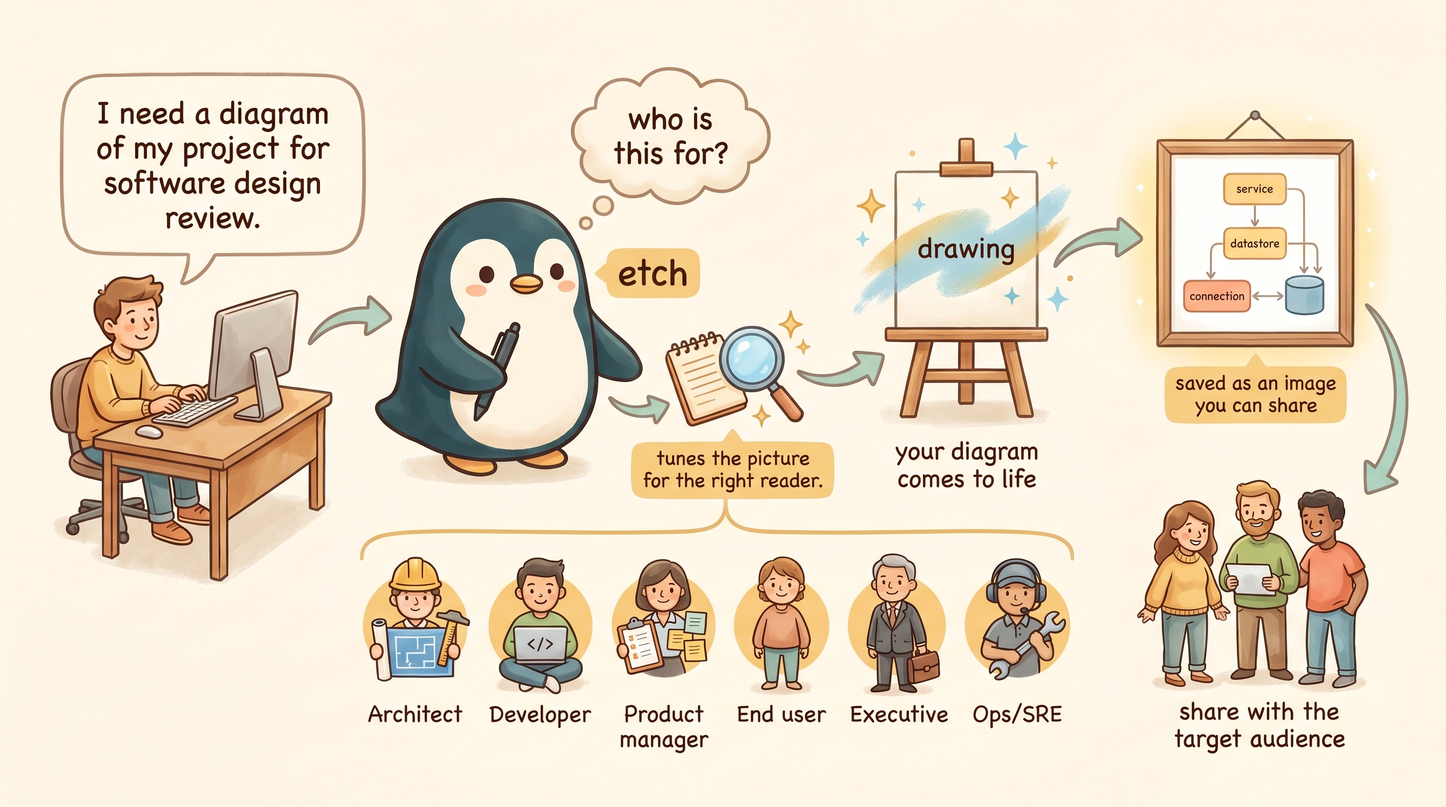
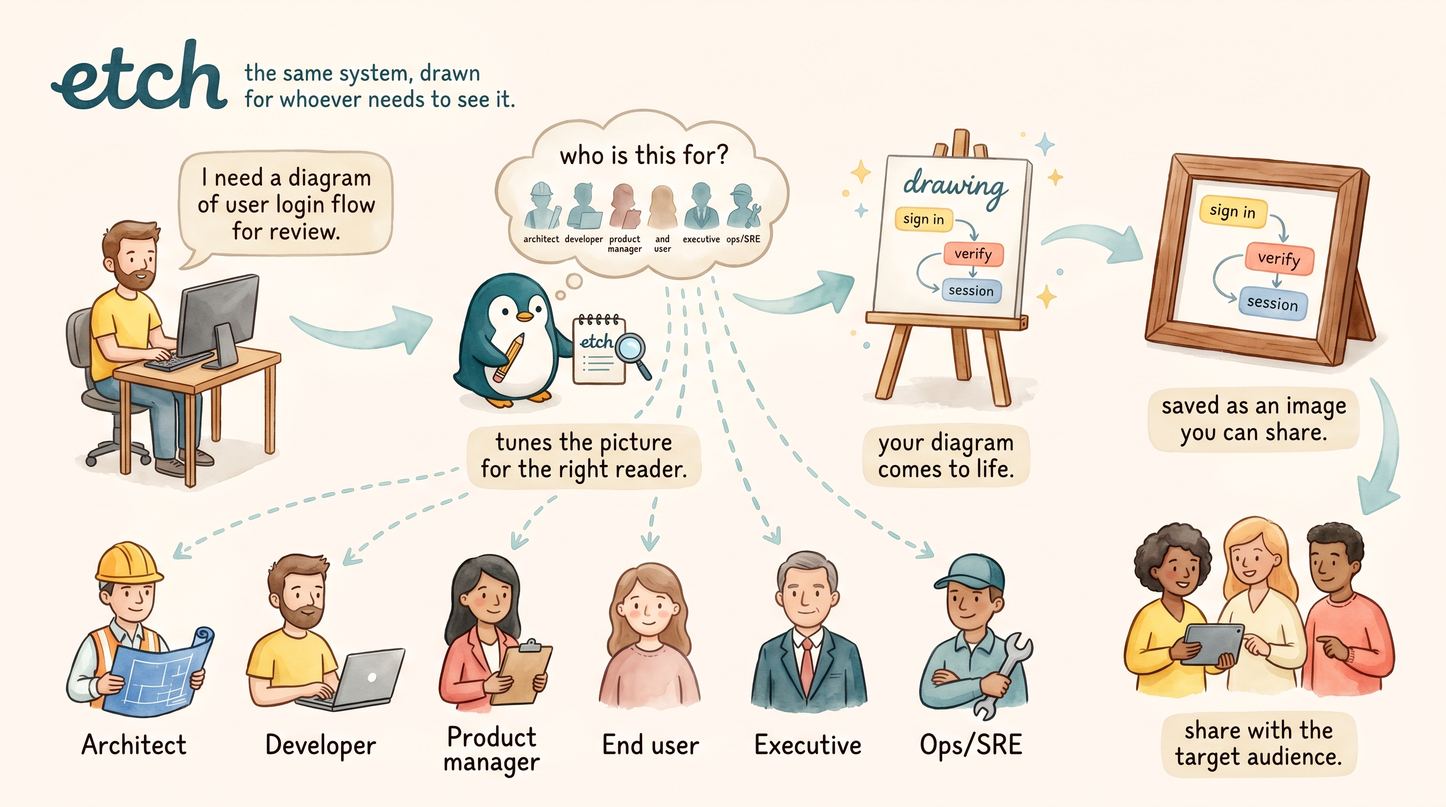
feat(skill,brand): two-register skill + brand hero refresh
Overwrites the etch skill's House style — previously a single watercolor
block forced on every generation — with two named registers the skill
picks between per image:

  - Storybook (default): the original warm watercolor / hand-applied
    feel that matches the existing illustrated brand assets in images/.
  - Enterprise stark (alternate): editorial technical illustration with
    a navy-dominant palette + warm brass accent, for boardroom /
    runbook / B2B platform docs where the watercolor register would
    feel unprofessional.

The Flow gains a register-pick step that infers from cues (hero /
brand / marketing → storybook; boardroom / runbook / explicit
"enterprise" → stark; both clean signals → announce; ambiguous →
ask user with a one-line binary). Per-audience anchors layer on top
of whichever register is chosen and still win on conflicts.

Brand assets updated alongside:

  - images/etch_hero.png (new) — landing hero: penguin sketching on
    an easel with the description fanning out into three audience-
    shaped thumbnails (developer, product manager, end user).
  - images/etch_user_journey.png (refreshed) — same composition as
    before, but with a tighter narrative throughline ("user login
    flow" from request to artifact) and a persona-link refinement:
    silhouettes inside the "who is this for?" thought bubble
    visually connect via dashed lines to the six archetype lineup
    below, making it canonical that etch picks from those six.
[…]

diff --git a/skills/etch/SKILL.md b/skills/etch/SKILL.md
@@ -34,15 +34,24 @@ The skill makes one inference attempt and at most one interview, then commits. I
 
 3. **Infer canvas (`aspect_ratio` and `resolution`) from the same signals** (see Canvas inference table below).
 
-4. **Branch on inference confidence:**
-   - **Confident** (at least one direct signal present): announce the inferred audience and canvas, then fire the call. Example: `Reading this as ops/SRE for a runbook print — 3:4, 2K. Generating now…`
-   - **Not confident** (request is generic, "draw a diagram of the system" with no other signals): run the interview (see below), then announce + proceed once the user picks.
+4. **Pick the house-style register** (see "Which register to use" above). If the signals favor one register cleanly, announce it. Otherwise present the binary choice to the user in one short line:
 
-5. **Build the audience guidance string.**
-   - If the inferred or selected audience matches one of the six anchors below, embed the anchor's prose block verbatim as the `audience` parameter.
+   ```
+   Style: storybook (default — warm watercolor, matches existing brand assets) or enterprise stark (navy + brass, clean editorial)?
+   ```
+
+   Default to storybook if the user does not answer.
+
+5. **Branch on inference confidence:**
+   - **Confident** (at least one direct signal present): announce the inferred audience, register, and canvas, then fire the call. Example: `Reading this as ops/SRE for a runbook print, enterprise-stark register — 3:4, 2K. Generating now…`
+   - **Not confident** (request is generic, "draw a diagram of the system" with no other signals): run the interview (see below) plus the register pick from step 4, then announce + proceed once the user picks.
+
+6. **Build the audience guidance string.**
+   - Prepend the chosen register's house-style block verbatim (storybook or enterprise stark — see "House style" section).
+   - Then embed the audience anchor's prose block verbatim as the rest of the `audience` parameter.
    - For "Other (describe)" or off-list audiences, write a short (3–5 sentence) guidance block on the fly using the same shape: who the reader is, what to emphasize, what to suppress, what visual register fits.
 
-6. **Call `start_diagram_job`** with the description, the audience prose, and the inferred canvas. Poll `check_job_status` every ~10 seconds until the job is `complete` or `failed`. Report the final path (or the failure reason) to the user.
+7. **Call `start_diagram_job`** with the description, the audience prose (register + anchor), and the inferred canvas. Poll `check_job_status` every ~10 seconds until the job is `complete` or `failed`. Report the final path (or the failure reason) to the user.
 
 ## Inference confidence — what counts as confident
 
@@ -55,9 +64,13 @@ Confidence is **low** when none of the above are present and the request is gene
 
 User-provided `aspect_ratio` or `resolution` always wins over inference. Never override an explicit choice.
 
-## House style (always applied)
+## House style — pick one per image
 
-A small house-style block is prepended to every `audience` parameter — *regardless* of which anchor below is selected. It carries cross-image consistency (palette, paper feel, edge-to-edge framing) so etch's outputs read as a family even when the per-audience register differs. The full prose, sent verbatim:
+Two house-style registers are supported. Exactly one is prepended to every `audience` parameter (alongside the per-audience anchor). They give different visual feels and target different output contexts. **The default is storybook** unless the user picks otherwise.
+
+### Storybook (default — warm illustrated)
+
+The original etch register. Use for friendly developer-tool branding, marketing/hero imagery, user-journey illustrations, README artwork, anything where warmth and character matter more than corporate restraint. Matches the existing etch brand assets in `images/` (mascot, user-journey illustration, example diagrams). The full prose, sent verbatim:
 
 ```
 House style — applies to every etch image regardless of audience:
@@ -70,11 +83,40 @@ House style — applies to every etch image regardless of audience:
 - Avoid: corporate clip-art aesthetics, drop shadow around the whole image as if it's a photo, sterile vector perfection, rigid mechanical grid alignment, uniform line weights everywhere.
 ```
 
-The per-audience register (below) layers on top of the house style. Where the audience anchor specifies a register that conflicts with house style (for example, a technical reference document needing crisper labels than a watercolor wash), the audience anchor wins for that conflict and the house-style elements that don't conflict still apply.
+### Enterprise stark (alternate — clean editorial)
+
+Use when the reader expects a serious authored technical document and the watercolor register would feel unprofessional: enterprise architecture reviews, board decks, runbook references, security review artifacts, B2B platform documentation. Trades warmth for the polish of a high-end engineering publication. The full prose, sent verbatim:
+
+```
+House style — applies to every etch image regardless of audience:
+
+Visual register: editorial technical illustration. Reference quality: Increment Magazine technical articles, Stripe Press book interior diagrams, "Designing Data-Intensive Applications", Distill.pub. Authored and opinionated. NOT watercolor / storybook / hand-drawn / paper-grain. NOT flat-corporate / clinical / sterile / PowerPoint-default.
+
+- Background: warm off-white / pale cream (~#F4EFE6). Never pure white. No paper texture or grain.
+- Lines and primary type: deep ink near-black (~#0E1726). Crisp uniform-weight strokes. No hand-drawn wobble, no watercolor bleed, no color escaping outside line boundaries.
+- Shapes: precise rectangles with subtle 4–6px rounded corners. Geometry is sharp.
+- Palette (navy-dominant with one warm focal accent — classic-confident, reads as a serious authored technical document):
+  - Lane / section header blocks: navy tones varying in depth — deepest navy (~#0F2347), mid navy (~#243E66), dusty indigo (~#4F6691). Cream-on-color labels.
+  - Signature accent (used on the most important boundary or focal element, on key identifier highlights, and on focal markers like a star or dot on a critical arrow): warm brass / antique gold (~#B68B3E). The SINGLE warm color in an otherwise cool composition. Classic navy + brass pairing — reads expensive and confident.
+  - Module-card interiors: pale cream, ink-navy labels.
+- Typography: characterful modern sans (Söhne, GT America, Inter Display feel) for headings and labels; monospaced (JetBrains Mono, IBM Plex Mono feel) for code identifiers, file paths, endpoints, model names, and any text representing literal source. Strong size hierarchy — section titles much larger than body labels.
+- Framing: NO frame, border, or edge decoration. The image IS the artifact, not a photo of one. Content extends fully to the edges.
+- One expressive design moment per diagram: the focal element (often an external system boundary, an AI call, or the inciting action) gets a subtle halftone or stippled fill in the brass accent AND a brass border — making the focal point visually unmistakable. Just that one element gets the special treatment.
+- Negative space: confident. Don't pack wall-to-wall. Let the major regions breathe.
+- Avoid absolutely: watercolor, painterly washes, color bleed outside lines, hand-lettering, paper grain, storybook illustration AESTHETIC AND grayscale corporate, drab safe palette, uniform type sizing, sterile flat clinical register, "PowerPoint default" look, decorative flourishes that aren't structural.
+```
+
+### Which register to use
+
+- **Storybook** when: the project has illustrated brand assets the image needs to match; the request is a hero, landing-page, or marketing image; the audience is the End user anchor; the user asks for something "warm", "friendly", "illustrated", or "playful".
+- **Enterprise stark** when: the user explicitly asks for "enterprise", "stark", "professional", "boardroom", "B2B", or "serious"; the destination is a board deck, an executive review, a security review, or a B2B platform doc; the existing project artifacts read as enterprise/financial-services rather than indie/illustrated.
+- **Otherwise** (genuinely ambiguous): present the choice. See Flow step 4 below.
+
+The per-audience anchor still layers on top of whichever register is chosen. Where an anchor specifies a register that conflicts with the chosen house style (for example, the End user anchor's warm friendly tones overriding navy-dominance), the audience anchor wins for that conflict and the house-style elements that don't conflict still apply.
 
 ## The six audience anchors
 
-When the inferred or selected audience matches one of these six, embed the house-style block above followed by the corresponding anchor prose **verbatim** as the `audience` parameter. The prose is engineered to steer Gemini's image model on abstraction, vocabulary, emphasis, and visual register; do not paraphrase.
+When the inferred or selected audience matches one of these six, embed the chosen register's house-style block (storybook or enterprise stark — see Flow step 4) followed by the corresponding anchor prose **verbatim** as the `audience` parameter. The prose is engineered to steer Gemini's image model on abstraction, vocabulary, emphasis, and visual register; do not paraphrase.
 
 ### Architect
 

diff --git a/README.md b/README.md
@@ -6,6 +6,8 @@
 
 Etch your codebase into a printable diagram, tailored to whoever needs to see it.
 
+![Hero: the etch penguin sketching on an easel; the same description fans out into three audience-shaped diagrams — developer, product manager, end user](images/etch_hero.png)
+
 The same description of a single-page app's login-to-dashboard journey, etched for three audiences:
 
 **Developer** — onboarding to this codebase
